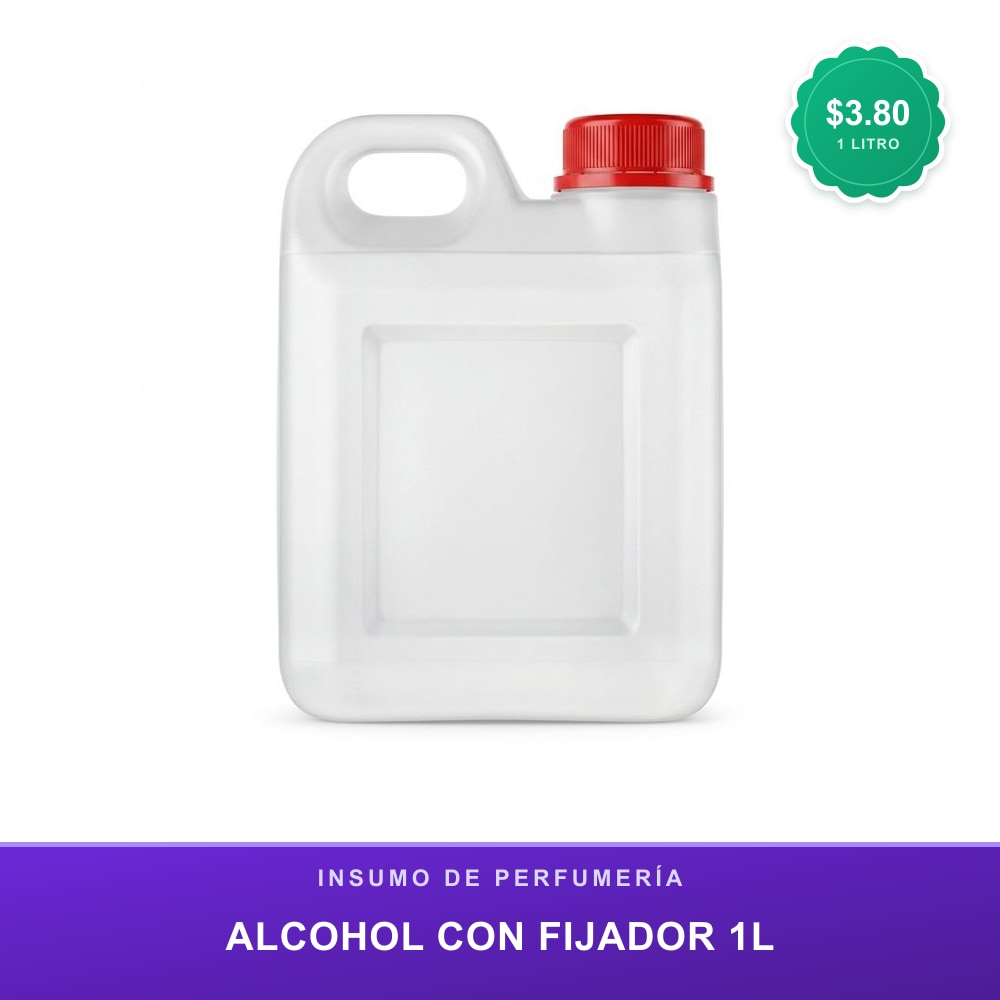
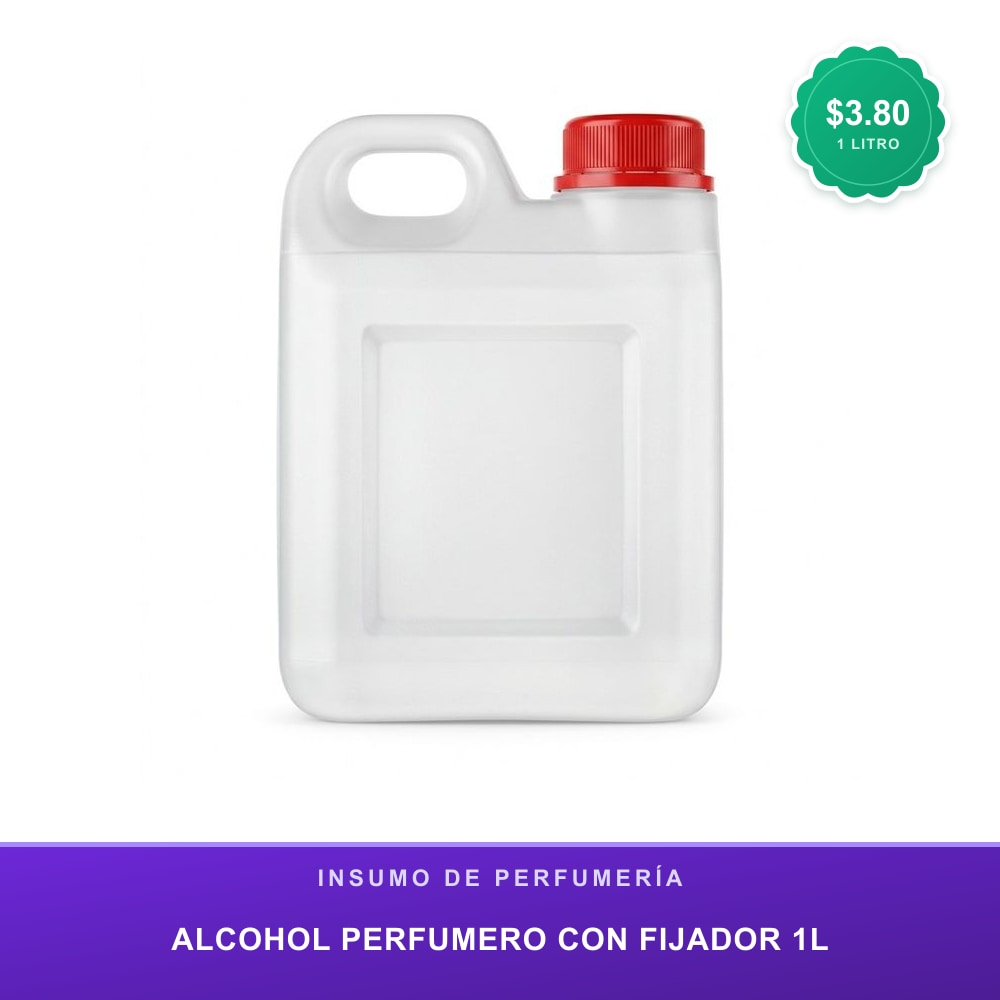
fix(meta-catalog): explicitly display ALCOHOL PERFUMERO CON FIJADOR on 1L and 1/2L images

Changed region(s): [[0.155, 0.899, 0.837, 0.961]]

diff --git a/scripts/render_meta_catalog_images.ts b/scripts/render_meta_catalog_images.ts
@@ -507,9 +507,9 @@ async function main() {
 
       const supplyTitle =
         p.id === 'alcohol-perfumero-fijador-1l'
-          ? 'ALCOHOL CON FIJADOR 1L'
+          ? 'ALCOHOL PERFUMERO CON FIJADOR 1L'
           : p.id === 'alcohol-perfumero-fijador-medio-litro'
-          ? 'ALCOHOL CON FIJADOR ½L'
+          ? 'ALCOHOL PERFUMERO CON FIJADOR ½L'
           : (p.officialName || p.name).toUpperCase();
 
       const overlaySvg = createCatalogOverlaySvg({
